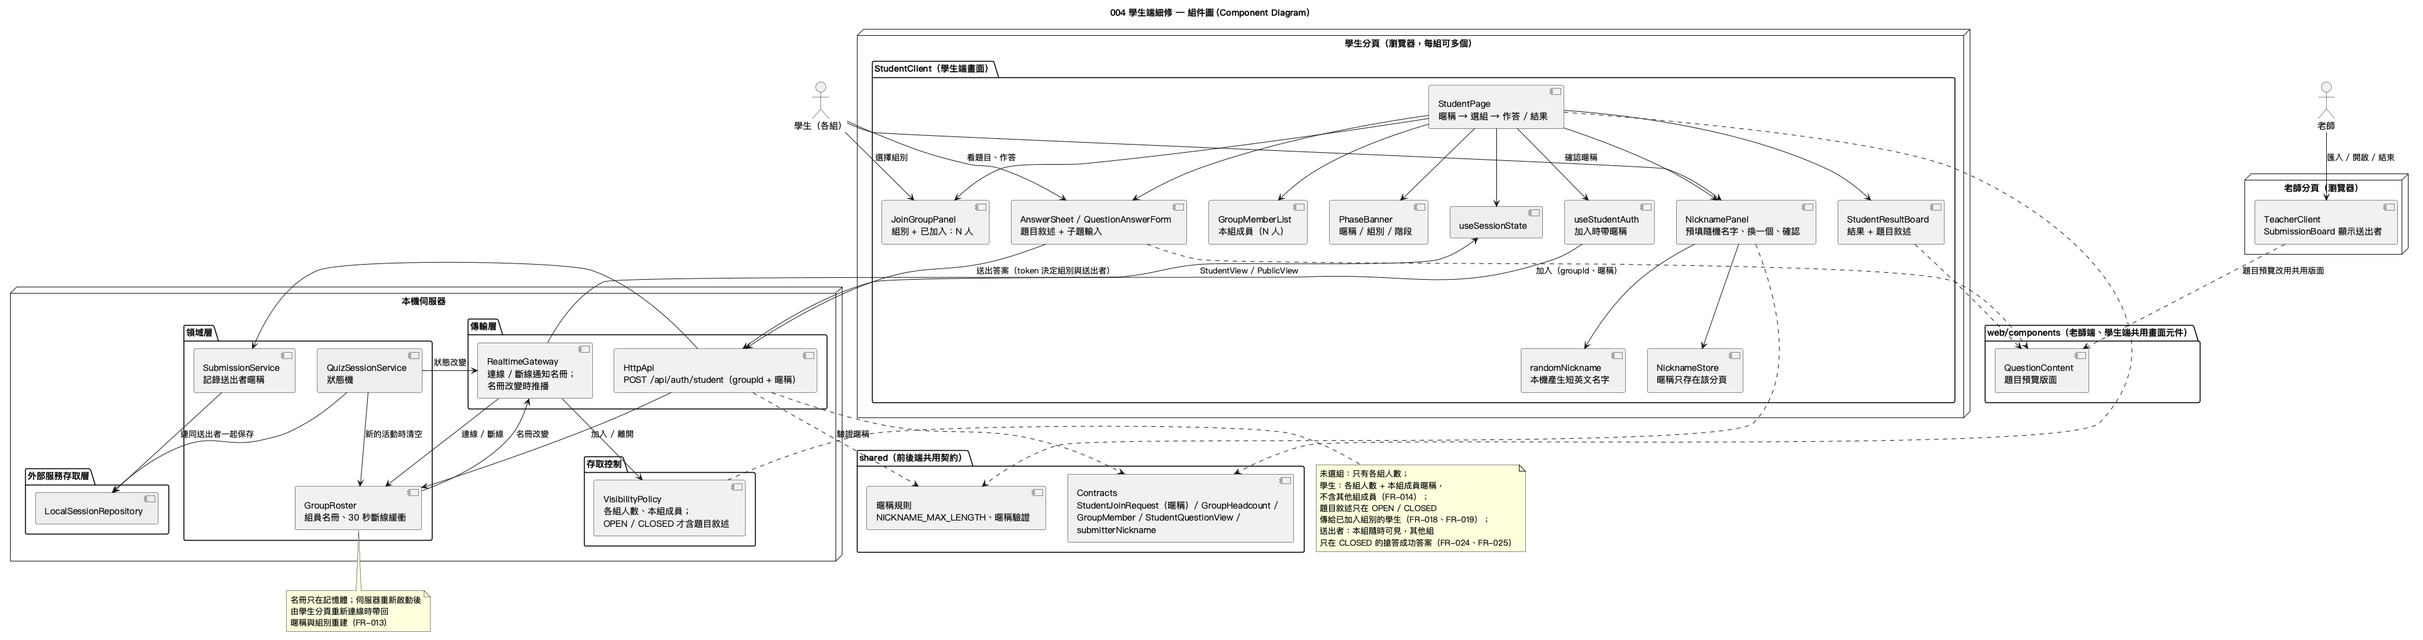
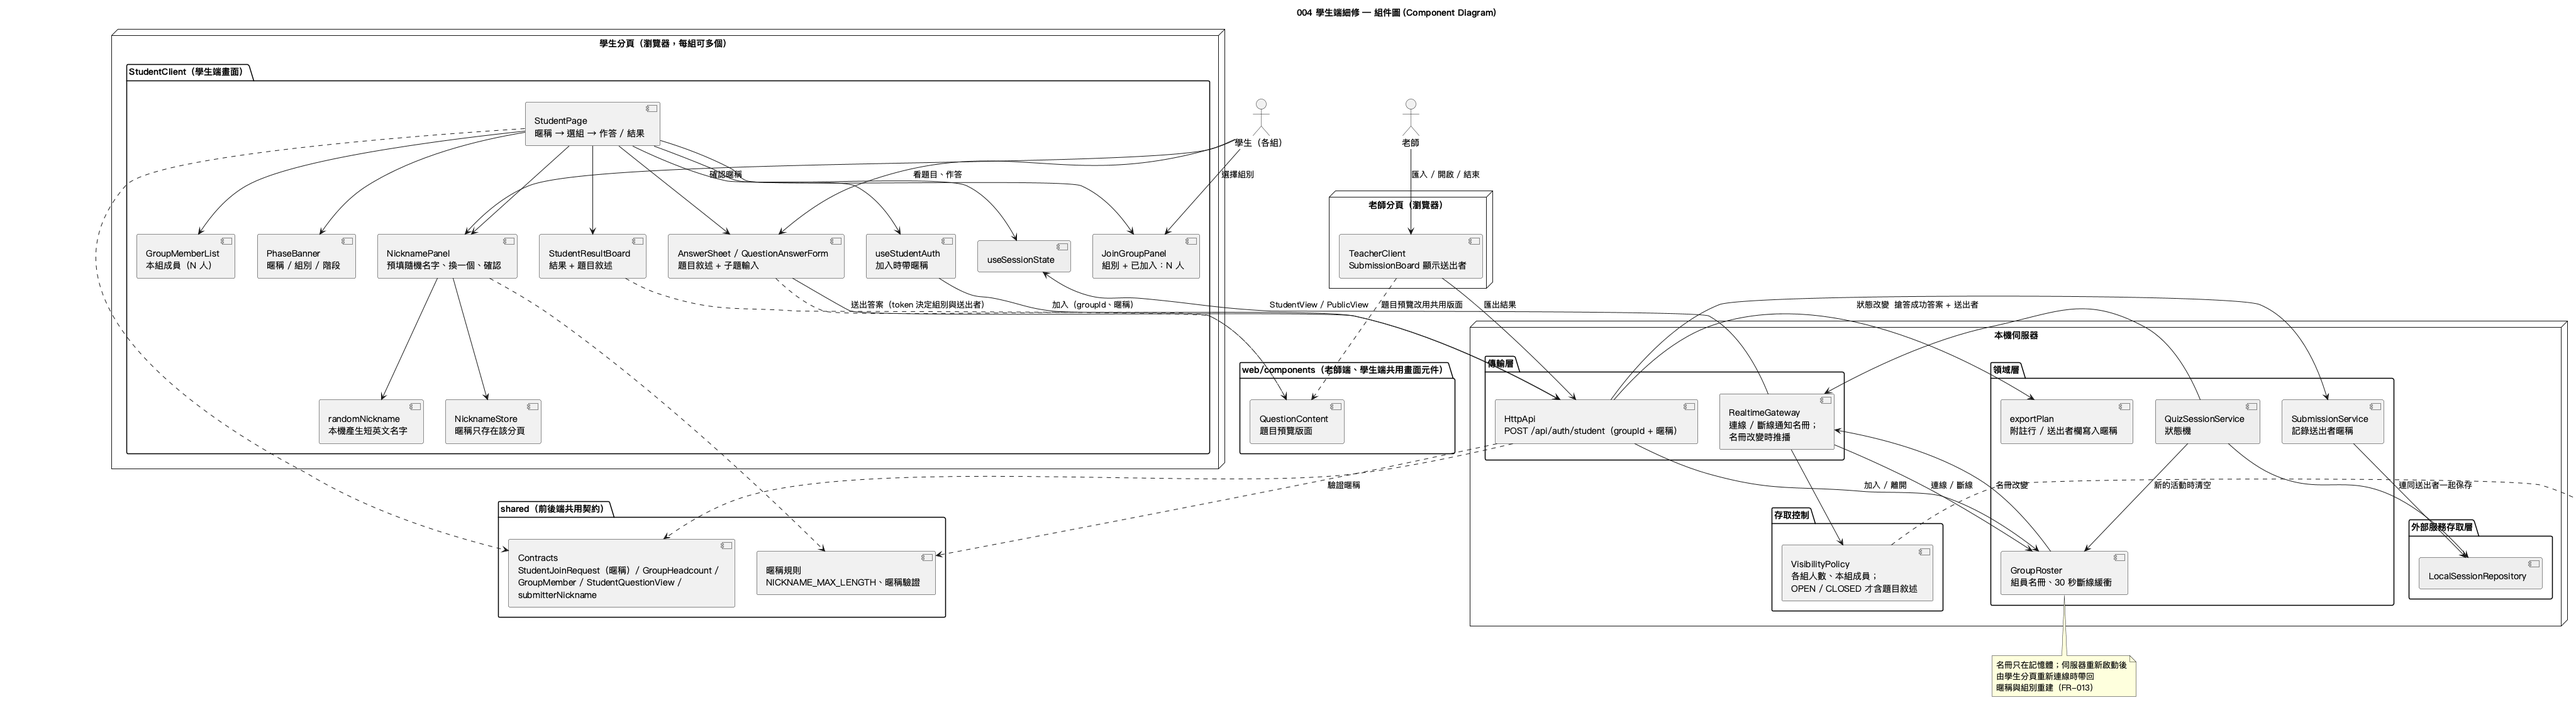
docs(004): include submitter nickname in Guided Notes export
The note-line mode writes 〔第 N 組｜暱稱｜時間〕 and the result-column mode
adds a submitter column; only winning submitters are written and older
records without a submitter keep the previous format.

diff --git a/specs/004-student-side-refinements/spec.md b/specs/004-student-side-refinements/spec.md
@@ -23,13 +23,13 @@
 - 作答與結果畫面顯示本組成員的暱稱與人數
 - 學生端顯示每一題的題目敘述（題組含子題敘述），樣式與老師端題目預覽相同
 - 每筆送出記錄送出者的暱稱，並依角色與活動階段決定誰看得到（老師端的送出列表一併顯示送出者）
+- 匯出到 Guided Notes 時，在搶答成功答案的附註行或結果欄加上送出者暱稱
 
 **本子功能不包含**：
 
 - 學生帳號、座號、真實姓名或名單管理（暱稱只用來在同組之間辨識，可以重複）
 - 以個人為單位送出或計分（作答單位仍是組別；送出者暱稱只用來顯示，不影響搶答判定與成績）
 - 老師端顯示各組人數或成員名單（老師端只多顯示每筆送出的送出者暱稱）
-- 匯出到 Guided Notes 的內容變更（匯出仍只寫入答案、組別與時間，不寫入送出者暱稱）
 - 限制每組人數、禁止重複暱稱、過濾不雅暱稱
 - 003 已完成的作答、送出、結果判定規則的變更
 
@@ -48,6 +48,8 @@
 - Q: 同組有人送出某題後，要不要顯示「由誰送出」？ → A: 要記錄送出者暱稱。老師端隨時看得到每筆送出的送出者；學生端同組成員
   彼此看得到本組每題的送出者；搶答進行中看不到其他組的送出者；搶答結束後，所有人都看得到每題搶答成功答案的送出者
   （FR-023～FR-026）。
+- Q: 匯出到 Guided Notes 時，要不要把送出者暱稱一起寫進去？ → A: 要；「答案＋格內附註行」模式的附註行加上送出者，
+  「答案＋組別時間欄」模式多一欄送出者（FR-027）。
 - Q: 學生不經過首頁、直接打開學生端網址時，也要先到暱稱頁嗎？ → A: 要；只要該分頁還沒有暱稱，不論從哪裡進入學生端都先顯示
   暱稱頁（FR-001）。
 
@@ -151,7 +153,8 @@ Ava 的畫面顯示第 1 題「已送出（Milo）」，Leo 的畫面看不到 M
 5. **Given** 第 2 組的 Leo 也送出第 3 題但未搶到，**When** 第 2 組學生檢視結果，**Then** 第 3 題同時顯示本組答案（Leo 送出）與
    搶答成功答案（Milo 送出）。
 6. **Given** Milo 送出後離開組別或關閉分頁，**When** 其他人檢視該題，**Then** 仍顯示送出者「Milo」。
-7. **Given** 老師匯出結果到 Guided Notes，**When** 檢視匯出的文件，**Then** 內容與 003 相同，不含送出者暱稱。
+7. **Given** 第 3 題由第 1 組的 Milo 搶答成功，**When** 老師以「答案＋格內附註行」模式匯出，**Then** 第 3 題的附註行為
+   「〔第 1 組｜Milo｜時間〕」；以「答案＋組別時間欄」模式匯出時，該題列的送出者欄寫入「Milo」。
 
 ---
 
@@ -234,7 +237,13 @@ Ava 的畫面顯示第 1 題「已送出（Milo）」，Leo 的畫面看不到 M
   送出者學生之後離開組別或關閉分頁，該題仍顯示原本的送出者暱稱。
 - **FR-025**: 搶答結束前，學生端 MUST NOT 收到其他組別的送出者暱稱；搶答結束後，結果畫面 MUST 在每題的搶答成功答案旁顯示
   送出者暱稱，所有學生都看得到。本組「已送出，未搶到」的題目同時顯示本組送出者與搶答成功答案的送出者。
-- **FR-026**: 老師端的送出列表與結果 MUST 在任何階段顯示每筆送出的送出者暱稱；送出者暱稱 MUST NOT 寫入匯出的 Guided Notes。
+- **FR-026**: 老師端的送出列表與結果 MUST 在任何階段顯示每筆送出的送出者暱稱。
+- **FR-027**: 匯出到 Guided Notes 時，搶答成功答案的送出者暱稱 MUST 一併寫入：
+  - 「答案＋格內附註行」模式：附註行改為「〔第 N 組｜暱稱｜時間〕」，其餘樣式與寫入位置沿用 002。
+  - 「答案＋組別時間欄」模式：在組別欄、時間欄之外 MUST 另有一欄「送出者」，依 002 結果欄的規則定位或新增表頭，
+    寫入搶答成功答案的送出者暱稱；無人搶答的題目留空。
+  - 沒有送出者的舊送出紀錄：附註行維持「〔第 N 組｜時間〕」，送出者欄留空。
+  - 只寫入搶答成功答案的送出者；未搶到的送出者 MUST NOT 寫入文件。重複匯出時寫入內容 MUST 完全相同（002 規則不變）。
 
 ### Key Entities *(include if feature involves data)*
 
@@ -258,7 +267,7 @@ Ava 的畫面顯示第 1 題「已送出（Milo）」，Leo 的畫面看不到 M
   未選組分頁收到的題目敘述出現次數為 0。
 - **SC-007**: 「搶答進行中」時，學生端每一題的題目敘述與老師端預覽的文字 100% 一致。
 - **SC-008**: 自動化測試檢查學生端收到的所有資料：搶答結束前其他組的送出者暱稱出現次數為 0；結束後每題搶答成功答案的
-  送出者 100% 與老師端一致；匯出的 Guided Notes 中送出者暱稱出現次數為 0。
+  送出者 100% 與老師端一致；以兩種匯出模式各匯出一次，搶答成功答案的送出者 100% 寫入正確位置，未搶到的送出者出現次數為 0。
 - **SC-009**: 用「單題範例」與「題組範例」各跑一次，老師與兩組各兩位學生完成「暱稱 → 加入 → 作答 → 結束 → 檢視結果」
   的完整流程，每次在 5 分鐘內完成，003 的人工驗證步驟仍全部通過。
 

diff --git a/specs/004-student-side-refinements/checklists/requirements.md b/specs/004-student-side-refinements/checklists/requirements.md
@@ -36,3 +36,4 @@
 - 第二次 `/speckit-clarify`（2026-11-24）新增送出者暱稱（US4、FR-023～FR-026、SC-008）與直接開啟學生端網址也先到暱稱頁
   （FR-001）；老師端因此會多顯示送出者暱稱。
 - 隨機英文名字的產生方式（採用哪個套件或名字清單）屬於實作選擇，留到 plan 階段決定。
+- 第三次 `/speckit-clarify`（2026-11-24）：匯出時把搶答成功答案的送出者寫入附註行或新增的送出者欄（FR-027）。
